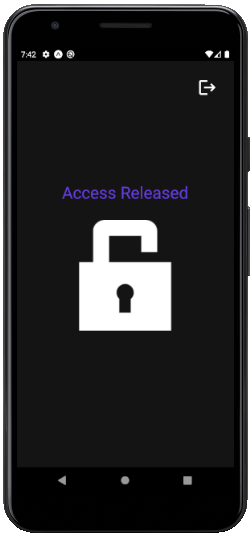
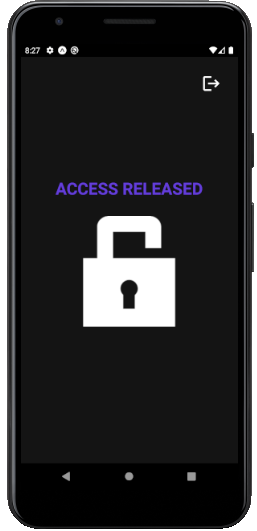
changing project screenshots

diff --git a/src/pages/Main/index.js b/src/pages/Main/index.js
@@ -16,7 +16,7 @@ function Main({ navigation }) {
             onPress={() => navigation.navigate("Login")}
           />
         </IconWrap>
-        <Text>Access Released</Text>
+        <Text>ACCESS RELEASED</Text>
         <Image
           source={require("../../../assets/unlock.png")}
           style={{ width: 200, height: 200 }}

diff --git a/src/pages/Login/index.js b/src/pages/Login/index.js
@@ -70,7 +70,7 @@ function Login({ navigation }) {
               auth(email, password);
             }}
           >
-            <TextSubmit>Entrar</TextSubmit>
+            <TextSubmit>Enter</TextSubmit>
           </ButtonSubmit>
         </Container>
       </KeyboradView>

diff --git a/src/pages/Main/style.js b/src/pages/Main/style.js
@@ -11,6 +11,7 @@ export const Container = styled.View`
 export const Text = styled.Text`
   color: #643cdb;
   font-size: 30px;
+  font-weight: 700;
   margin-bottom: 30px;
 `;
 
